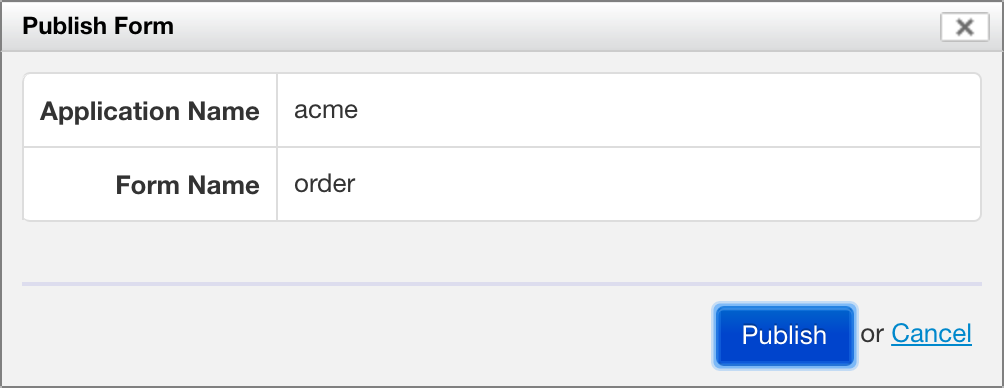
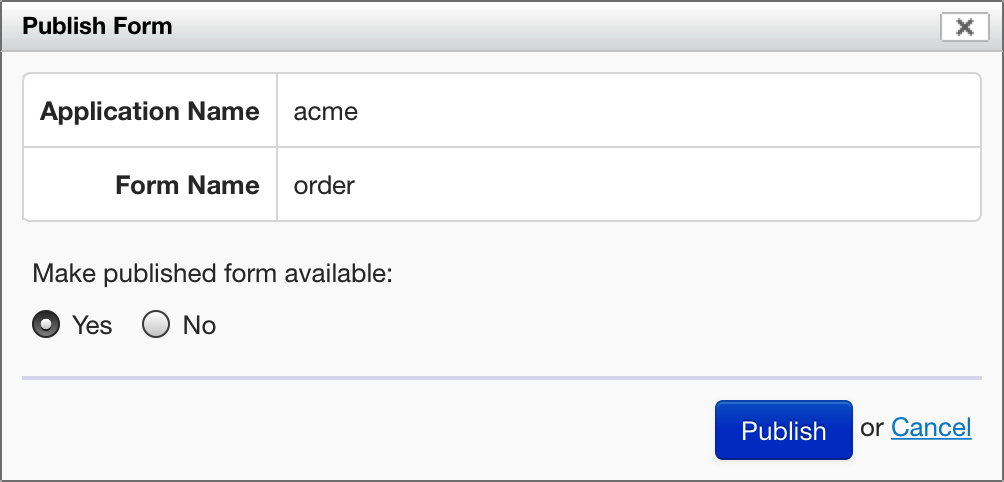
Doc for setting availability on publish

diff --git a/form-builder/publishing.md b/form-builder/publishing.md
@@ -18,6 +18,8 @@ When you start publishing a form with the Publish button at the bottom of Form B
 
 <img alt="Creating a new version" src="images/publish-initial-no-versioning.png" width="502">
 
+[SINCE Orbeon Forms 2017.2] You can decide whether the published form is available to end users. You can later change the availability of the published form either in Form Builder by re-publishing it, or from the [Form Runner runner home page](../form-runner/feature/home-page.md#controlling-form-definitions-availability).   
+
 If you decide to go ahead with publishing, simply use the Publish button.
 
 ## Versioning
@@ -26,9 +28,9 @@ If you decide to go ahead with publishing, simply use the Publish button.
 
 When versioning is enabled, you have a choice, when publishing, of whether to create a new form version or to override an existing one.
 
-<img alt="Creating a new version" src="images/publish-version-next.png" width="502">
+<img alt="Creating a new version" src="images/publish-version-next.png" width="501">
 
-<img alt="Overwriting an existing version" src="images/publish-version-overwrite.png" width="502">
+<img alt="Overwriting an existing version" src="images/publish-version-overwrite.png" width="503">
 
 [SINCE Orbeon Forms 2016.1]
 
